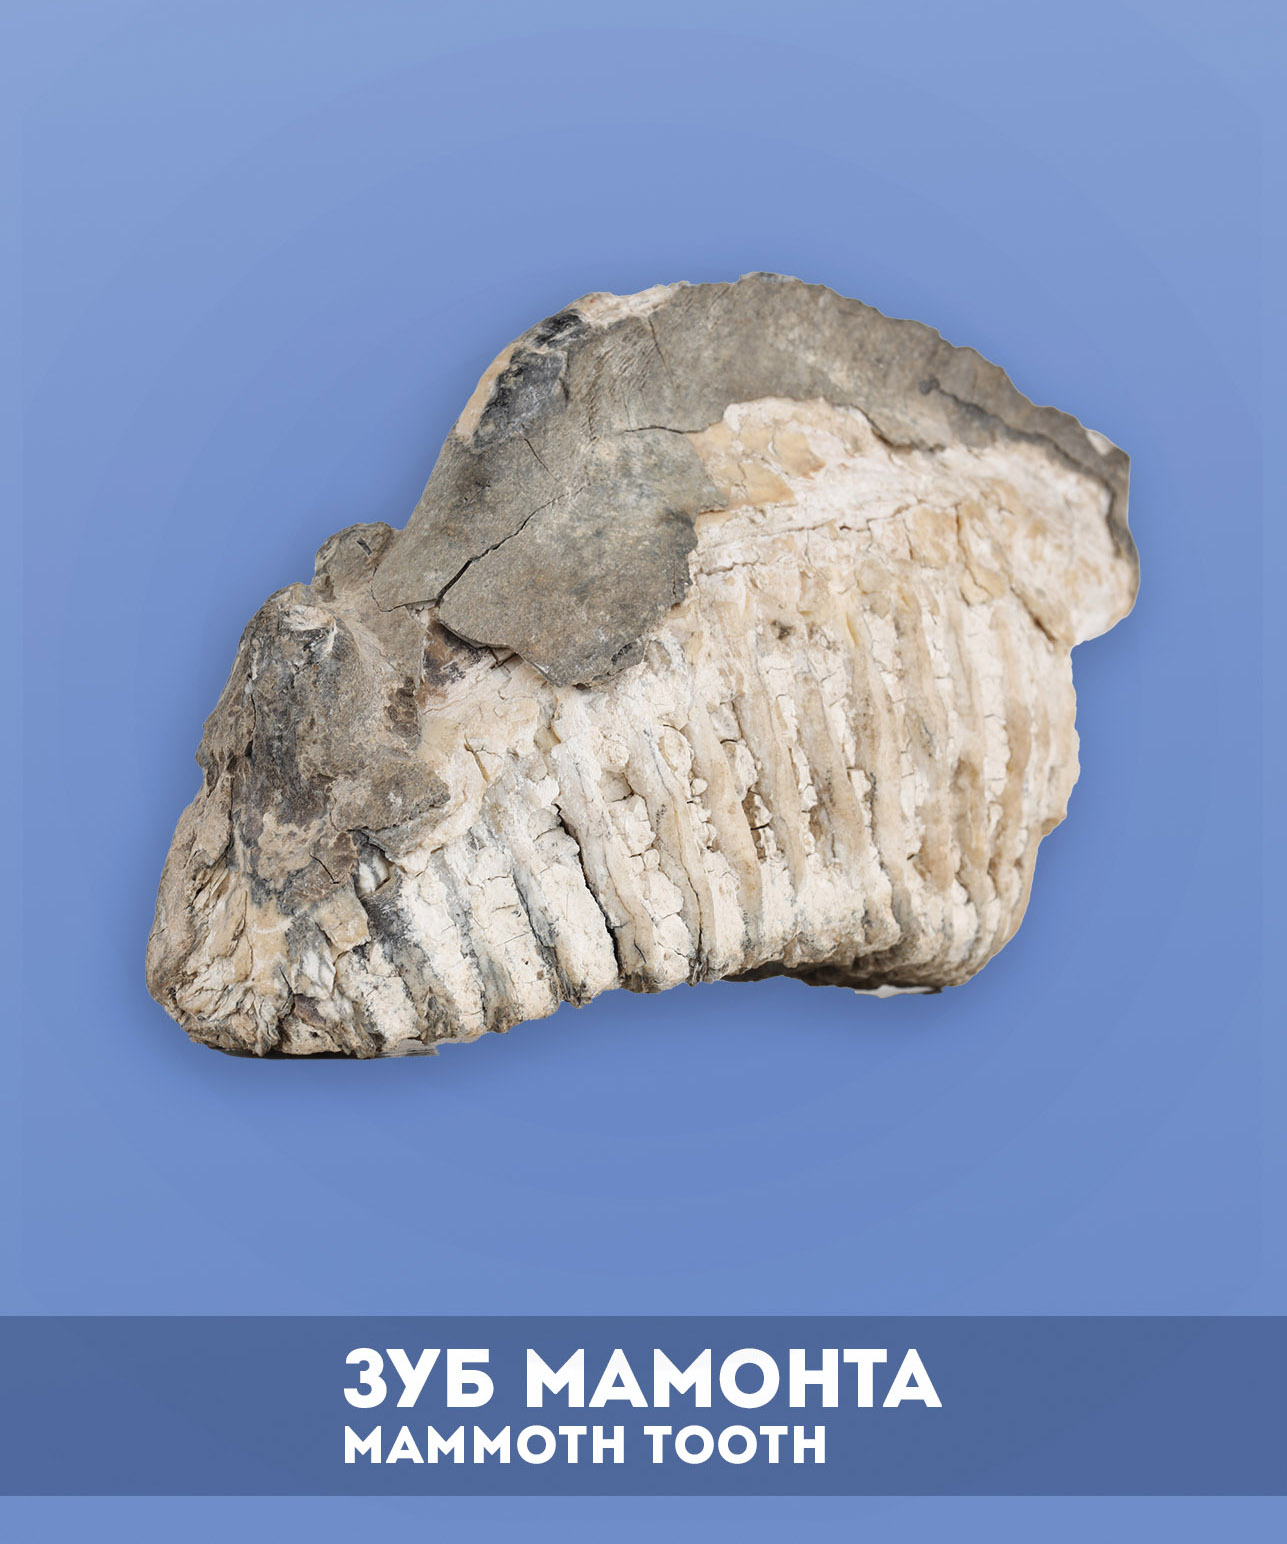
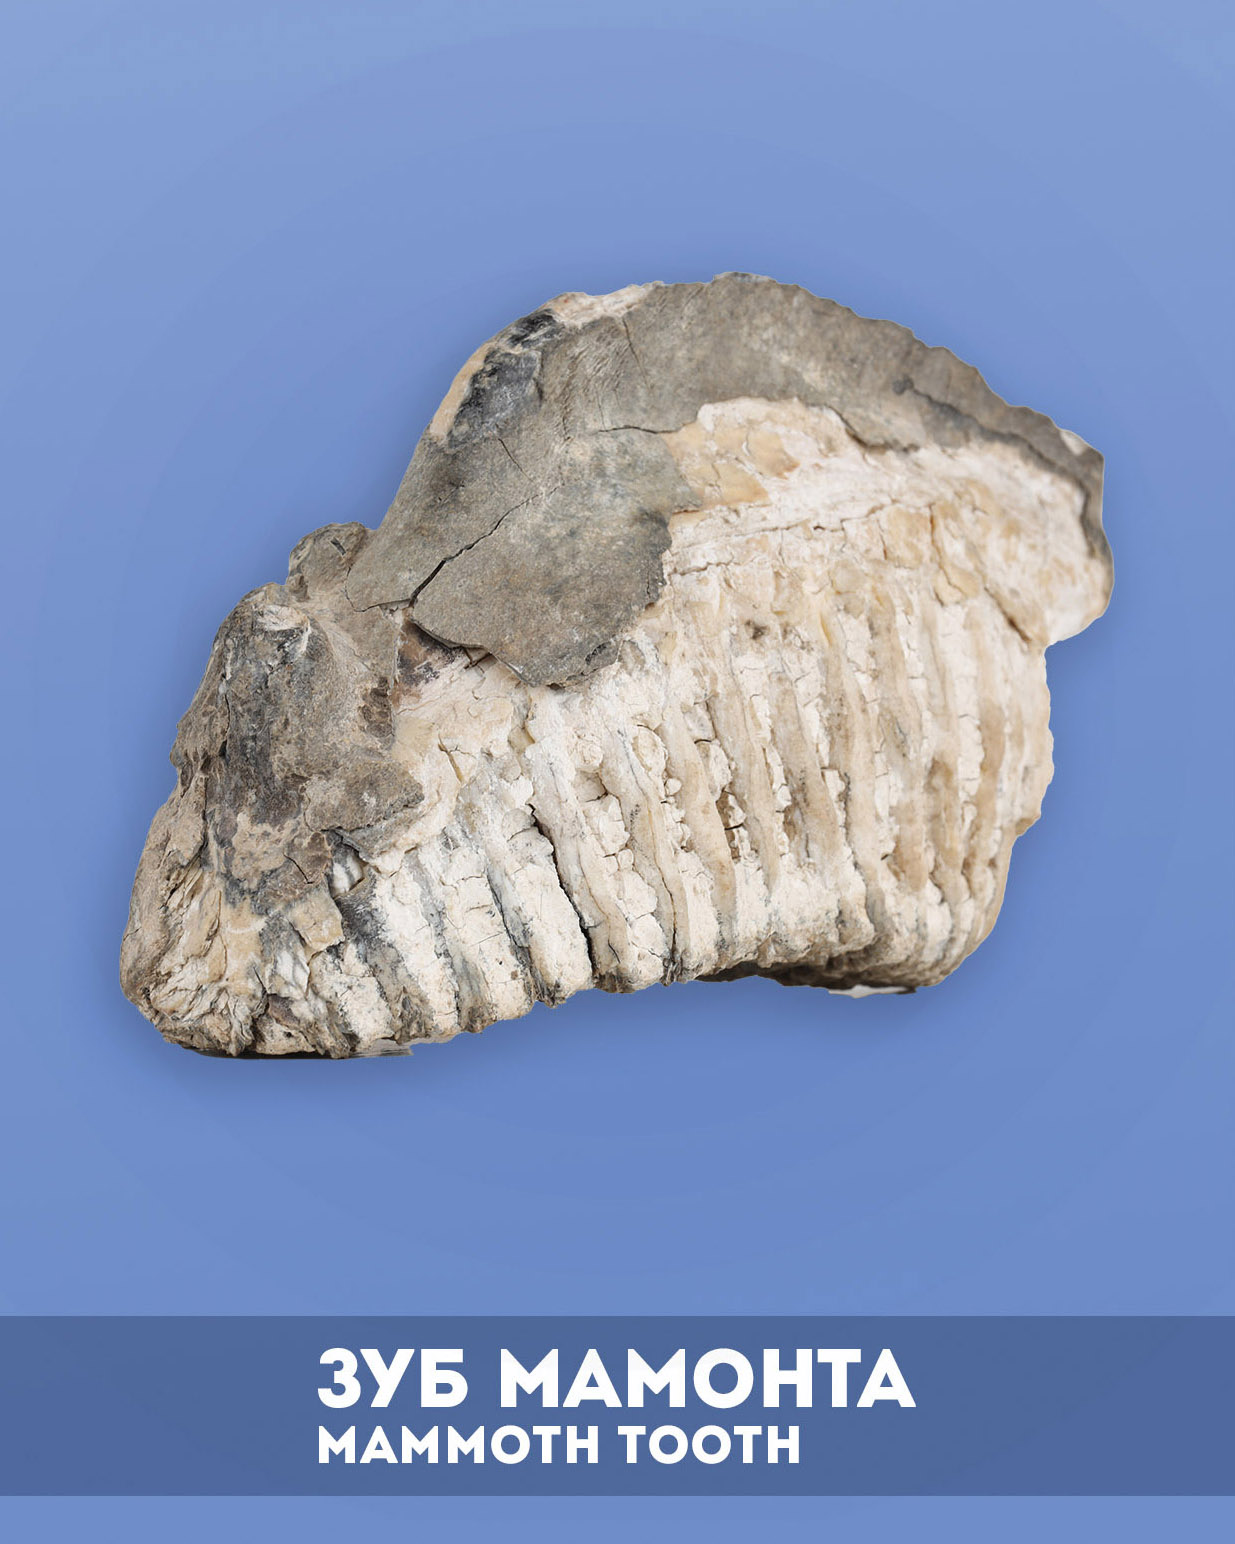
Updated image2, updated index.html
image2 resized to 4:5, reworked card structure in index.html

diff --git a/index.html b/index.html
@@ -100,6 +100,8 @@
     @media (min-width: 1200px) { .exhibits-grid { grid-template-columns: repeat(4, 1fr); } }
 
     /* ── Card ── */
+    :root { --card-pad: clamp(14px, 4.5%, 24px); }
+
     .exhibit-card {
       background: #F3F3F3;
       border-radius: 0;
@@ -111,8 +113,7 @@
       opacity: 0;
       animation: cardIn .42s cubic-bezier(.4,0,.2,1) forwards;
       transition: transform var(--tr), box-shadow var(--tr);
-      padding: clamp(16px, 5%, 16px);
-      box-sizing: border-box;
+      /* no padding — controlled per-zone below */
     }
     @media (min-width: 600px) {
       .exhibit-card { width: 100%; margin-left: 0; margin-right: 0; }
@@ -123,18 +124,17 @@
     }
     .exhibit-card:hover .card-img img { transform: scale(1.03); }
 
-    /* Header row */
+    /* Header — bigger top padding, same left/right as card-pad */
     .card-header {
       display: flex;
       align-items: center;
       justify-content: space-between;
-      margin-bottom: clamp(14px, 4.5%, 22px);
-      min-height: clamp(36px, 9%, 52px);
+      padding: calc(var(--card-pad) * 1.5) var(--card-pad) var(--card-pad);
       flex-shrink: 0;
     }
     .card-icon {
-      width: clamp(32px, 8%, 46px);
-      height: clamp(32px, 8%, 46px);
+      width: clamp(28px, 7.5%, 42px);
+      height: clamp(28px, 7.5%, 42px);
       flex-shrink: 0;
       color: var(--text);
     }
@@ -142,20 +142,20 @@
     .card-num {
       font-family: 'Lora', Georgia, serif;
       font-weight: 500;
-      font-size: clamp(.85rem, 3.5vw, 1.2rem);
+      font-size: clamp(.85rem, 3.5vw, 1.15rem);
       color: var(--text);
       letter-spacing: .02em;
       line-height: 1;
     }
 
-    /* Media — natural image size, no fixed aspect-ratio */
+    /* Media — full width, no side padding; bottom padding = card-pad */
     .card-img {
       width: 100%;
       overflow: hidden;
       background: #D9D9D9;
-      border-radius: 0;
       flex-shrink: 0;
       line-height: 0;
+      margin-bottom: var(--card-pad);
     }
     .card-img img {
       width: 100%;
